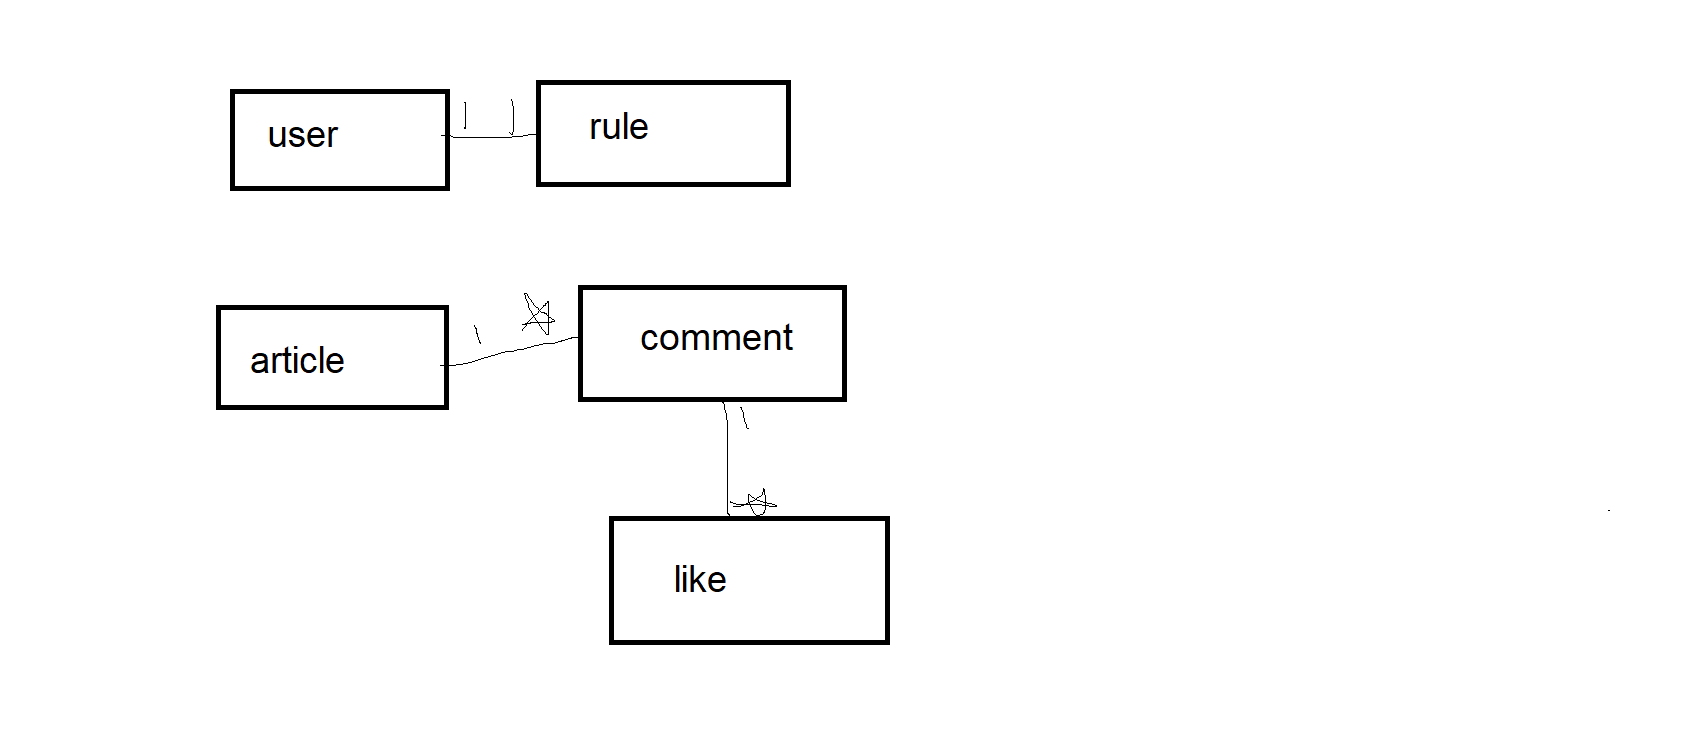
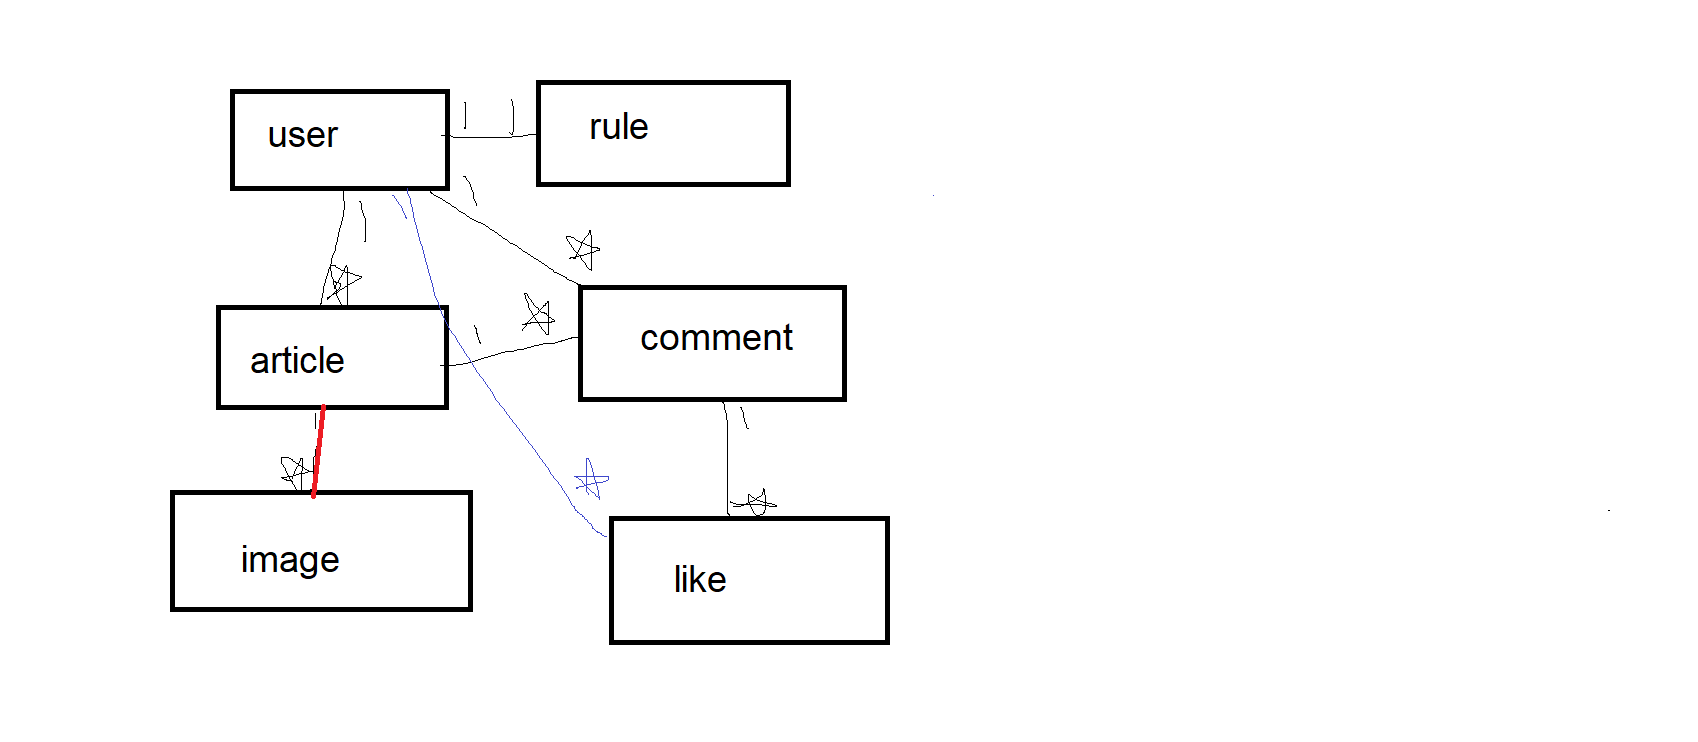
complete migration fileds and model relationships and model factory data

diff --git a/app/Models/User.php b/app/Models/User.php
@@ -1,16 +1,15 @@
 <?php
-
 namespace App\Models;
-
 // use Illuminate\Contracts\Auth\MustVerifyEmail;
 use Illuminate\Database\Eloquent\Factories\HasFactory;
+use Illuminate\Database\Eloquent\Relations\BelongsTo;
+use Illuminate\Database\Eloquent\Relations\HasMany;
+use Illuminate\Database\Eloquent\Relations\HasOne;
 use Illuminate\Foundation\Auth\User as Authenticatable;
 use Illuminate\Notifications\Notifiable;
-
 class User extends Authenticatable
 {
     use HasFactory, Notifiable;
-
     /**
      * The attributes that are mass assignable.
      *
@@ -19,9 +18,9 @@ class User extends Authenticatable
     protected $fillable = [
         'name',
         'email',
+        'rule_id',
         'password',
     ];
-
     /**
      * The attributes that should be hidden for serialization.
      *
@@ -31,7 +30,6 @@ class User extends Authenticatable
         'password',
         'remember_token',
     ];
-
     /**
      * Get the attributes that should be cast.
      *
@@ -43,5 +41,17 @@ class User extends Authenticatable
             'email_verified_at' => 'datetime',
             'password' => 'hashed',
         ];
+    }
+    public function rule():BelongsTo{
+        return $this->belongsTo(Rule::class);
+    }
+    public function articles():HasMany{
+        return $this->hasMany(Article::class);
+    }
+    public function comments():HasMany{
+        return $this->hasMany(Comment::class);
+    }
+    public function likes():HasMany{
+        return $this->hasMany(Like::class);
     }
 }

diff --git a/database/migrations/0001_01_01_000000_create_users_table.php b/database/migrations/0001_01_01_000000_create_users_table.php
@@ -1,9 +1,7 @@
 <?php
-
 use Illuminate\Database\Migrations\Migration;
 use Illuminate\Database\Schema\Blueprint;
 use Illuminate\Support\Facades\Schema;
-
 return new class extends Migration
 {
     /**
@@ -15,18 +13,17 @@ return new class extends Migration
             $table->id();
             $table->string('name');
             $table->string('email')->unique();
+            $table->foreignId('rule_id')->constrained()->onDelete('cascade'); // Foreign key field
             $table->timestamp('email_verified_at')->nullable();
             $table->string('password');
             $table->rememberToken();
             $table->timestamps();
         });
-
         Schema::create('password_reset_tokens', function (Blueprint $table) {
             $table->string('email')->primary();
             $table->string('token');
             $table->timestamp('created_at')->nullable();
         });
-
         Schema::create('sessions', function (Blueprint $table) {
             $table->string('id')->primary();
             $table->foreignId('user_id')->nullable()->index();
@@ -36,7 +33,6 @@ return new class extends Migration
             $table->integer('last_activity')->index();
         });
     }
-
     /**
      * Reverse the migrations.
      */

diff --git a/database/factories/UserFactory.php b/database/factories/UserFactory.php
@@ -1,11 +1,10 @@
 <?php
-
 namespace Database\Factories;
-
+use App\Models\Rule;
+use App\Models\User;
 use Illuminate\Database\Eloquent\Factories\Factory;
 use Illuminate\Support\Facades\Hash;
 use Illuminate\Support\Str;
-
 /**
  * @extends \Illuminate\Database\Eloquent\Factories\Factory<\App\Models\User>
  */
@@ -15,7 +14,6 @@ class UserFactory extends Factory
      * The current password being used by the factory.
      */
     protected static ?string $password;
-
     /**
      * Define the model's default state.
      *
@@ -26,12 +24,12 @@ class UserFactory extends Factory
         return [
             'name' => fake()->name(),
             'email' => fake()->unique()->safeEmail(),
+            'rule_id' => Rule::where('active',true)->inRandomOrder()->first(), // Create a new rule and assign its ID
             'email_verified_at' => now(),
             'password' => static::$password ??= Hash::make('password'),
             'remember_token' => Str::random(10),
         ];
     }
-
     /**
      * Indicate that the model's email address should be unverified.
      */

diff --git a/database/migrations/2024_07_20_195908_create_images_table.php b/database/migrations/2024_07_20_195908_create_images_table.php
@@ -1,0 +1,29 @@
+<?php
+use Illuminate\Database\Migrations\Migration;
+use Illuminate\Database\Schema\Blueprint;
+use Illuminate\Support\Facades\Schema;
+return new class extends Migration
+{
+    /**
+     * Run the migrations.
+     */
+    public function up(): void
+    {
+        Schema::create('images', function (Blueprint $table) {
+            $table->id();
+            $table->string('file_path'); // Path to the image file
+            $table->string('file_name'); // Name of the image file
+            $table->string('file_type'); // Type of the image file
+            $table->unsignedBigInteger('imageable_id'); // Polymorphic relationship ID
+            $table->string('imageable_type'); // Polymorphic relationship type
+            $table->timestamps();
+        });
+    }
+    /**
+     * Reverse the migrations.
+     */
+    public function down(): void
+    {
+        Schema::dropIfExists('images');
+    }
+};

diff --git a/app/Models/Article.php b/app/Models/Article.php
@@ -1,11 +1,28 @@
 <?php
-
 namespace App\Models;
-
 use Illuminate\Database\Eloquent\Factories\HasFactory;
 use Illuminate\Database\Eloquent\Model;
-
+use Illuminate\Database\Eloquent\Relations\BelongsTo;
+use Illuminate\Database\Eloquent\Relations\HasMany;
 class Article extends Model
 {
     use HasFactory;
+    protected $fillable = [
+        'user_id',
+        'title',
+        'content'
+    ];
+    /**
+     * Get all of the post's images.
+     */
+    public function images()
+    {
+        return $this->morphMany(Image::class, 'imageable');
+    }
+    public function comments():HasMany{
+        return $this->hasMany(Comment::class);
+    }
+    public function user():BelongsTo{
+        return $this->belongsTo(User::class);
+    }
 }

diff --git a/routes/web.php b/routes/web.php
@@ -1,20 +1,16 @@
 <?php
-
 use App\Http\Controllers\ProfileController;
 use Illuminate\Support\Facades\Route;
-
 Route::get('/', function () {
     return view('welcome');
 });
-
 Route::get('/dashboard', function () {
     return view('dashboard');
 })->middleware(['auth', 'verified'])->name('dashboard');
-
 Route::middleware('auth')->group(function () {
     Route::get('/profile', [ProfileController::class, 'edit'])->name('profile.edit');
     Route::patch('/profile', [ProfileController::class, 'update'])->name('profile.update');
     Route::delete('/profile', [ProfileController::class, 'destroy'])->name('profile.destroy');
 });
-
 require __DIR__.'/auth.php';
+require __DIR__.'/test.php';

diff --git a/app/Models/Comment.php b/app/Models/Comment.php
@@ -1,11 +1,24 @@
 <?php
-
 namespace App\Models;
-
 use Illuminate\Database\Eloquent\Factories\HasFactory;
 use Illuminate\Database\Eloquent\Model;
-
+use Illuminate\Database\Eloquent\Relations\BelongsTo;
+use Illuminate\Database\Eloquent\Relations\HasMany;
 class Comment extends Model
 {
     use HasFactory;
+    protected $fillable = [
+        'user_id',
+        'article_id',
+        'content'
+    ];
+    public function article():BelongsTo{
+        return $this->belongsTo(Article::class);
+    }
+    public function user():BelongsTo{
+        return $this->belongsTo(User::class);
+    }
+    public function likes():HasMany{
+        return $this->hasMany(Like::class);
+    }
 }

diff --git a/database/migrations/2024_07_20_115718_create_articles_table.php b/database/migrations/2024_07_20_115718_create_articles_table.php
@@ -1,9 +1,7 @@
 <?php
-
 use Illuminate\Database\Migrations\Migration;
 use Illuminate\Database\Schema\Blueprint;
 use Illuminate\Support\Facades\Schema;
-
 return new class extends Migration
 {
     /**
@@ -13,10 +11,12 @@ return new class extends Migration
     {
         Schema::create('articles', function (Blueprint $table) {
             $table->id();
+            $table->foreignId('user_id')->constrained()->onDelete('cascade'); // Foreign key field
+            $table->string('title');
+            $table->text('content');
             $table->timestamps();
         });
     }
-
     /**
      * Reverse the migrations.
      */

diff --git a/database/migrations/2024_07_20_120326_create_likes_table.php b/database/migrations/2024_07_20_120326_create_likes_table.php
@@ -1,4 +1,5 @@
 <?php
+use App\Enums\EnumVoteType;
 use Illuminate\Database\Migrations\Migration;
 use Illuminate\Database\Schema\Blueprint;
 use Illuminate\Support\Facades\Schema;
@@ -13,7 +14,7 @@ return new class extends Migration
             $table->id();
             $table->foreignId('user_id')->constrained()->onDelete('cascade'); // Foreign key field
             $table->foreignId('comment_id')->constrained()->onDelete('cascade'); // Foreign key field
-            $table->enum('like',['like','dislike']);
+            $table->enum('like',EnumVoteType::getValues());
             $table->timestamps();
         });
     }

diff --git a/database/factories/LikeFactory.php b/database/factories/LikeFactory.php
@@ -1,9 +1,9 @@
 <?php
-
 namespace Database\Factories;
-
+use App\Enums\EnumVoteType;
+use App\Models\Comment;
+use App\Models\User;
 use Illuminate\Database\Eloquent\Factories\Factory;
-
 /**
  * @extends \Illuminate\Database\Eloquent\Factories\Factory<\App\Models\Like>
  */
@@ -17,7 +17,9 @@ class LikeFactory extends Factory
     public function definition(): array
     {
         return [
-            //
+            'user_id'=>User::inRandomOrder()->first(),
+            'comment_id'=> Comment::inRandomOrder()->first(),
+            'like' => collect(EnumVoteType::getValues())->random()
         ];
     }
 }

diff --git a/database/factories/CommentFactory.php b/database/factories/CommentFactory.php
@@ -1,9 +1,8 @@
 <?php
-
 namespace Database\Factories;
-
+use App\Models\Article;
+use App\Models\User;
 use Illuminate\Database\Eloquent\Factories\Factory;
-
 /**
  * @extends \Illuminate\Database\Eloquent\Factories\Factory<\App\Models\Comment>
  */
@@ -17,7 +16,9 @@ class CommentFactory extends Factory
     public function definition(): array
     {
         return [
-            //
+            'user_id'=> User::inRandomOrder()->first(),
+            'article_id' => Article::inRandomOrder()->first(),
+            'content' => fake()->text(200)
         ];
     }
 }

diff --git a/app/Models/Like.php b/app/Models/Like.php
@@ -1,11 +1,20 @@
 <?php
-
 namespace App\Models;
-
 use Illuminate\Database\Eloquent\Factories\HasFactory;
 use Illuminate\Database\Eloquent\Model;
-
+use Illuminate\Database\Eloquent\Relations\BelongsTo;
 class Like extends Model
 {
     use HasFactory;
+    protected $fillable = [
+        'user_id',
+        'comment_id',
+        'like'
+    ];
+    public function comment():BelongsTo{
+        return $this->belongsTo(Comment::class);
+    }
+    public function user():BelongsTo{
+        return $this->belongsTo(User::class);
+    }
 }
